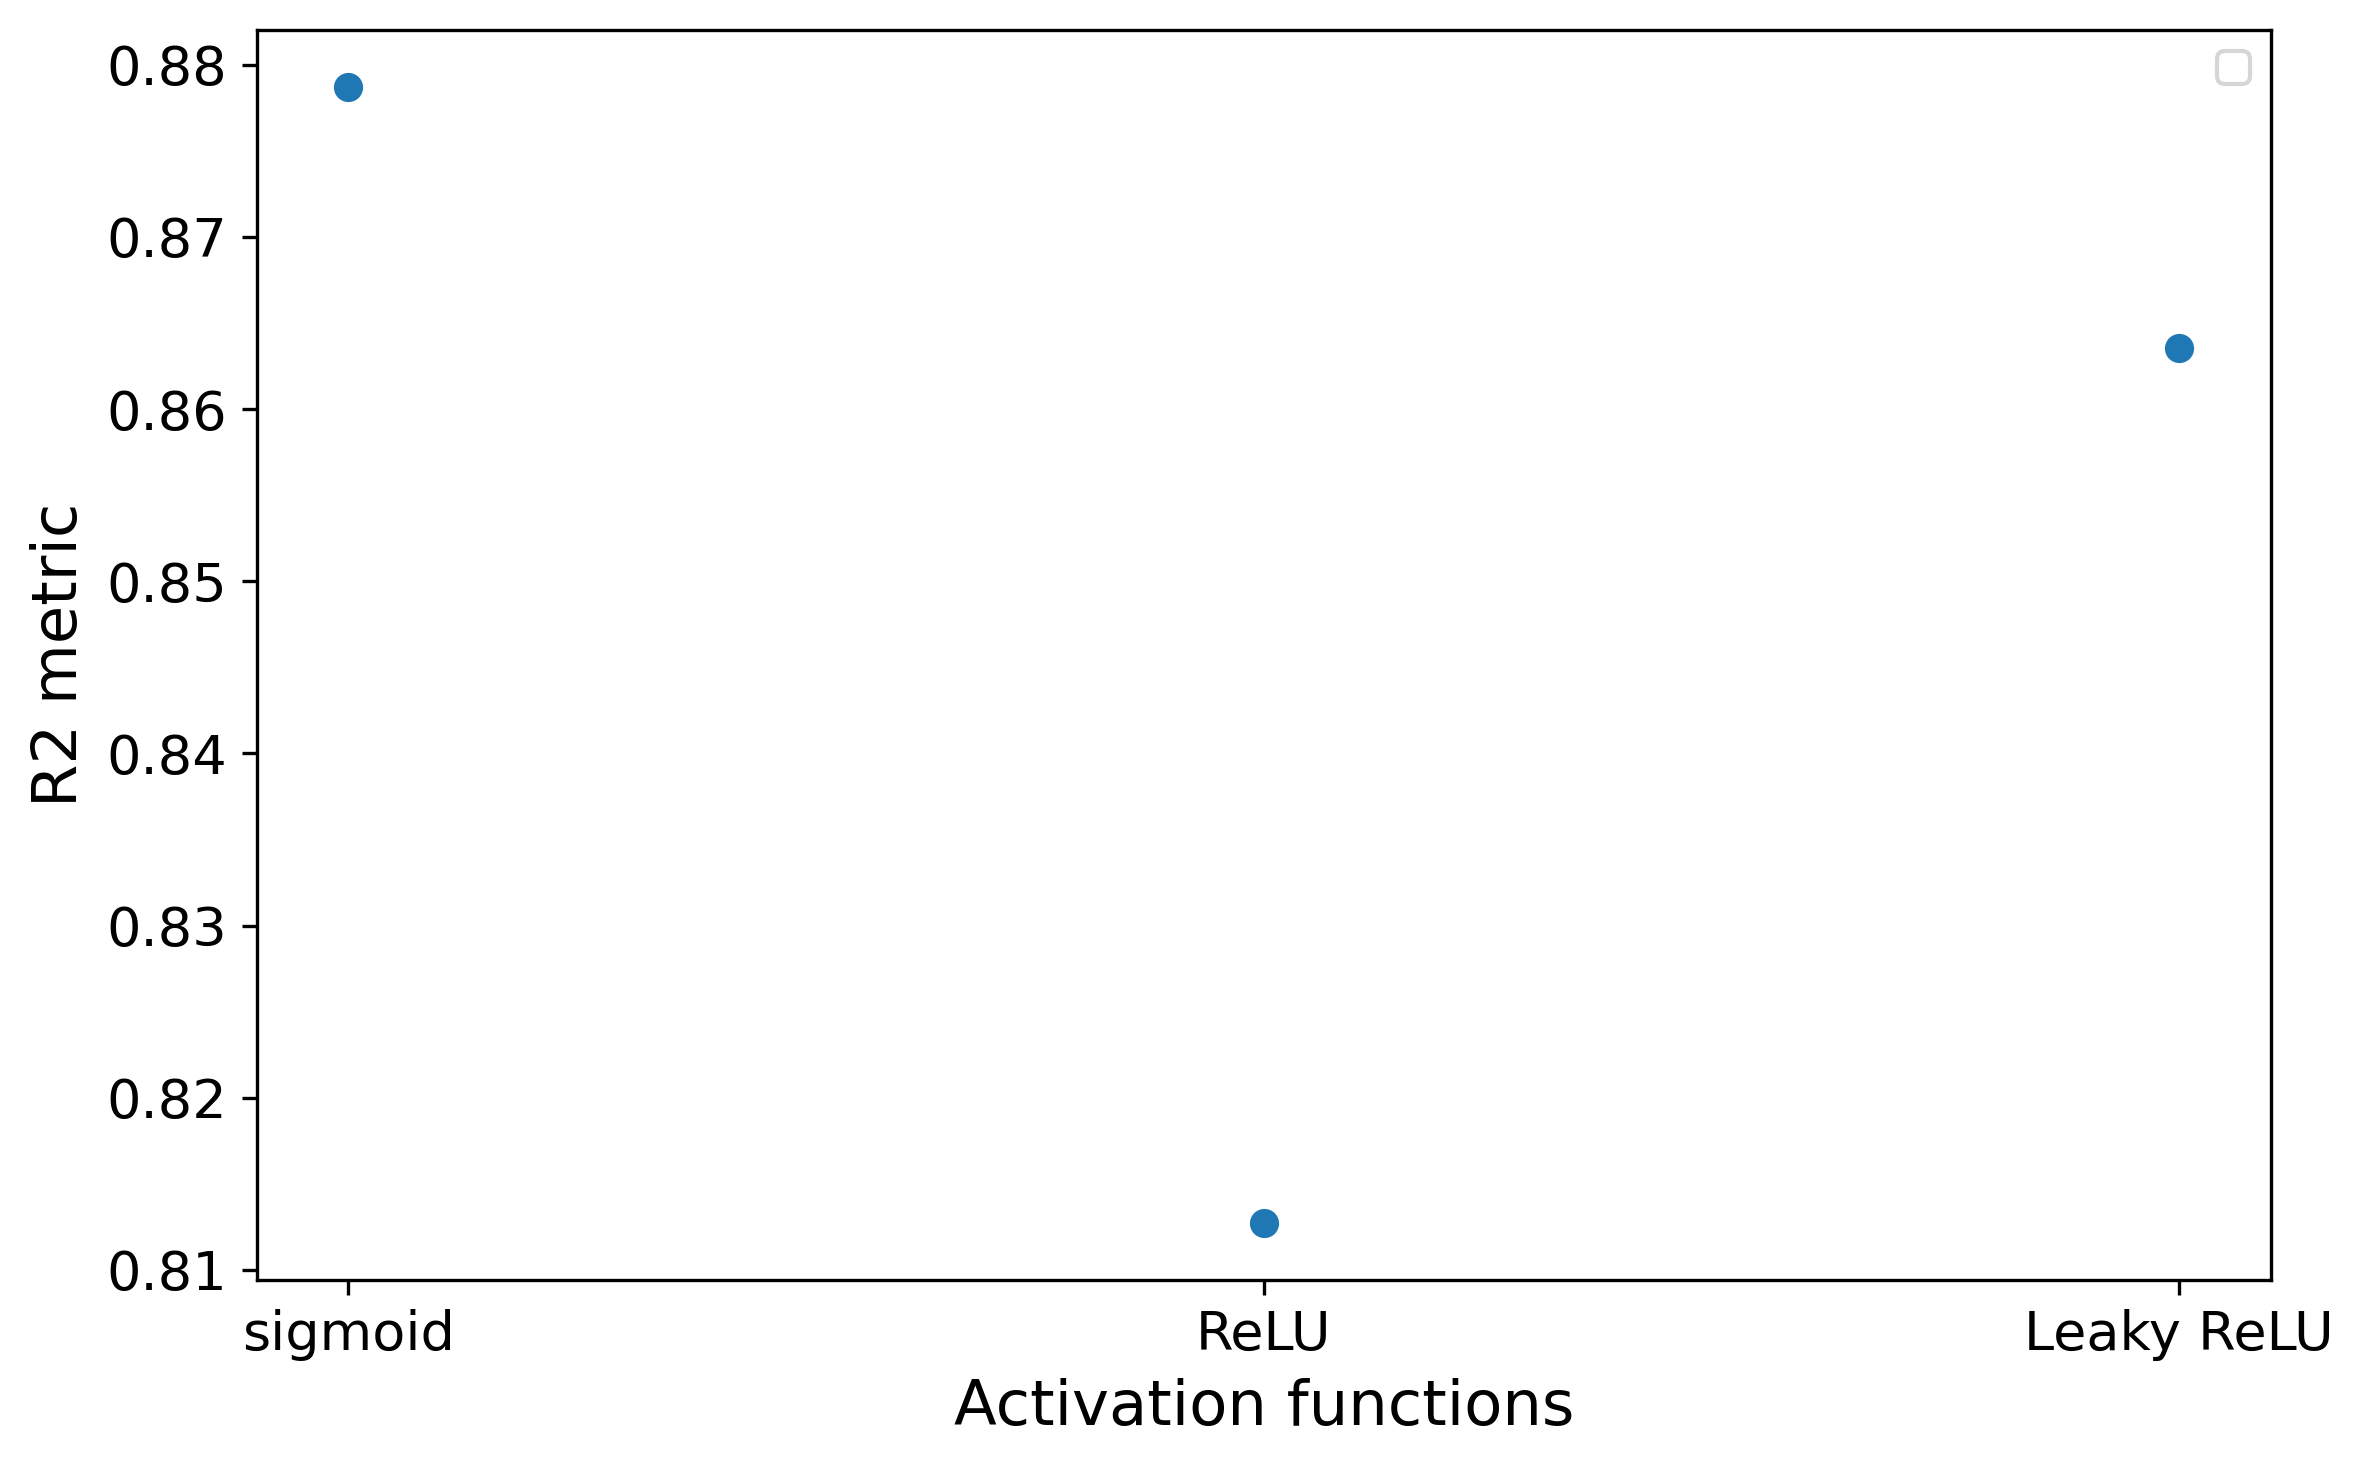
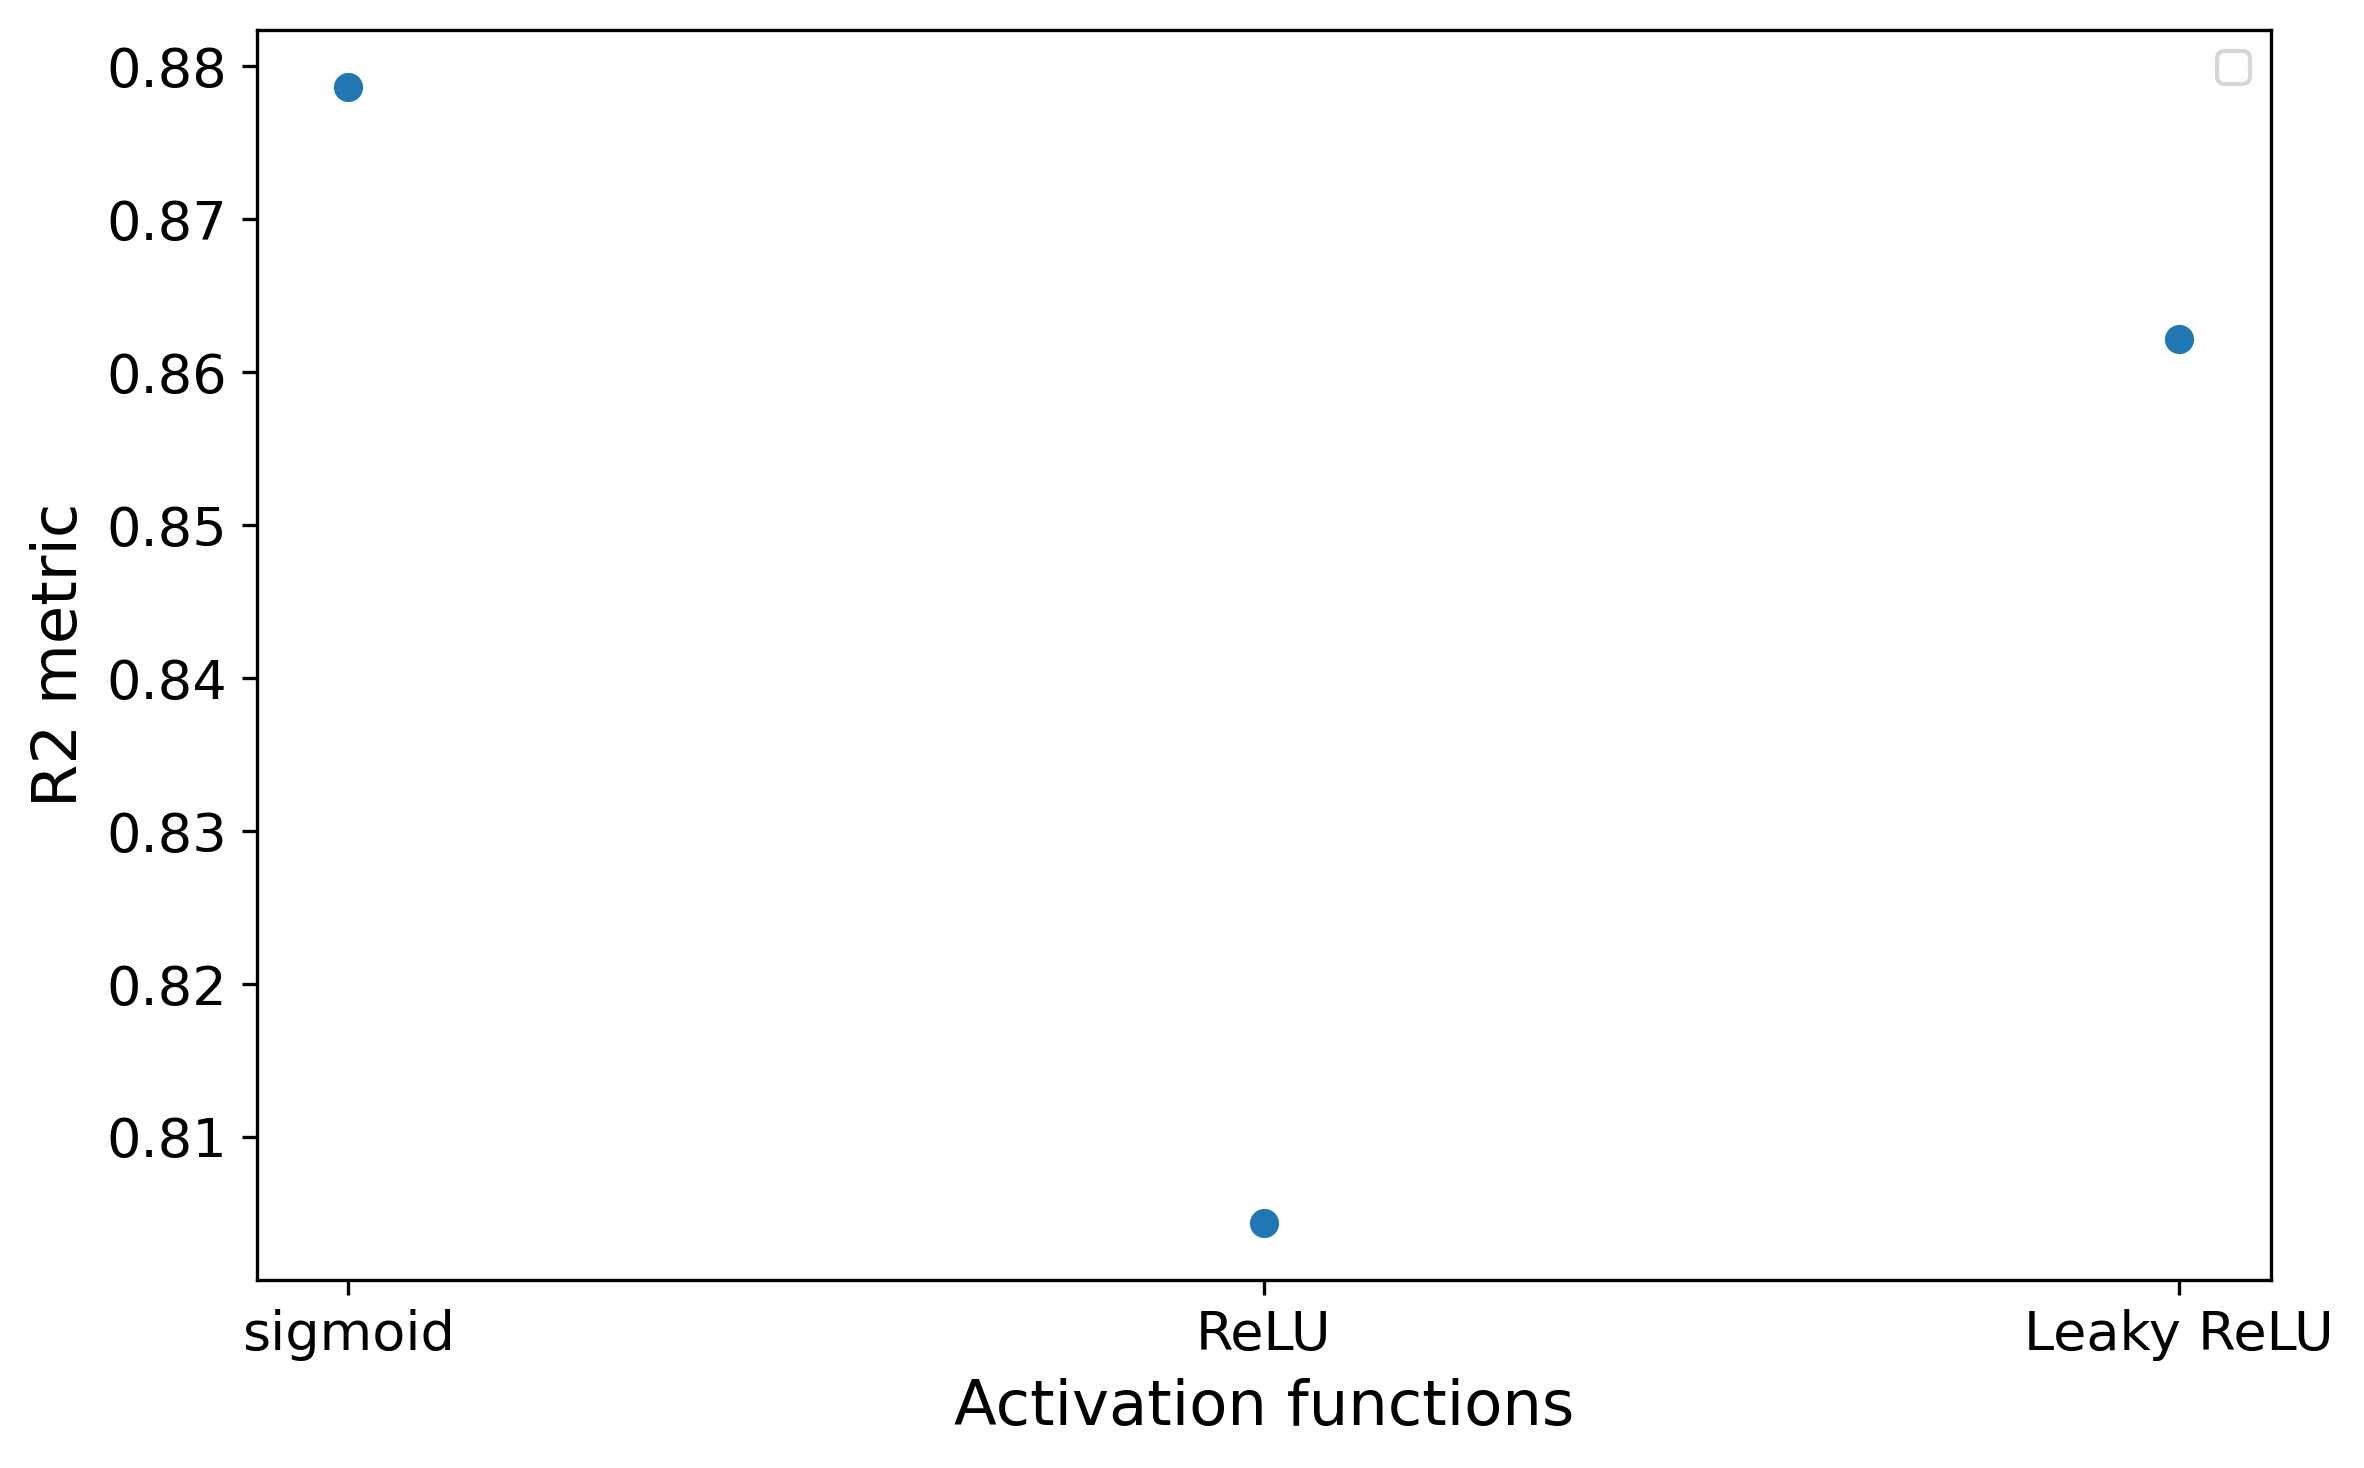
activation functions runge barplot

diff --git a/project_2/Code/functions.py b/project_2/Code/functions.py
@@ -100,7 +100,7 @@ def cross_entropy_der(predict, target):
 # Performance metrics
 
 def R2(y_model, y_data):
-    return 1 - np.sum((y_data - y_model) ** 2) / np.sum((y_data - np.mean(y_model)) ** 2)
+    return 1 - np.sum((y_data - y_model) ** 2) / np.sum((y_data - np.mean(y_data)) ** 2)
 
 def accuracy(predictions, targets):
     one_hot_predictions = np.zeros(predictions.shape)
